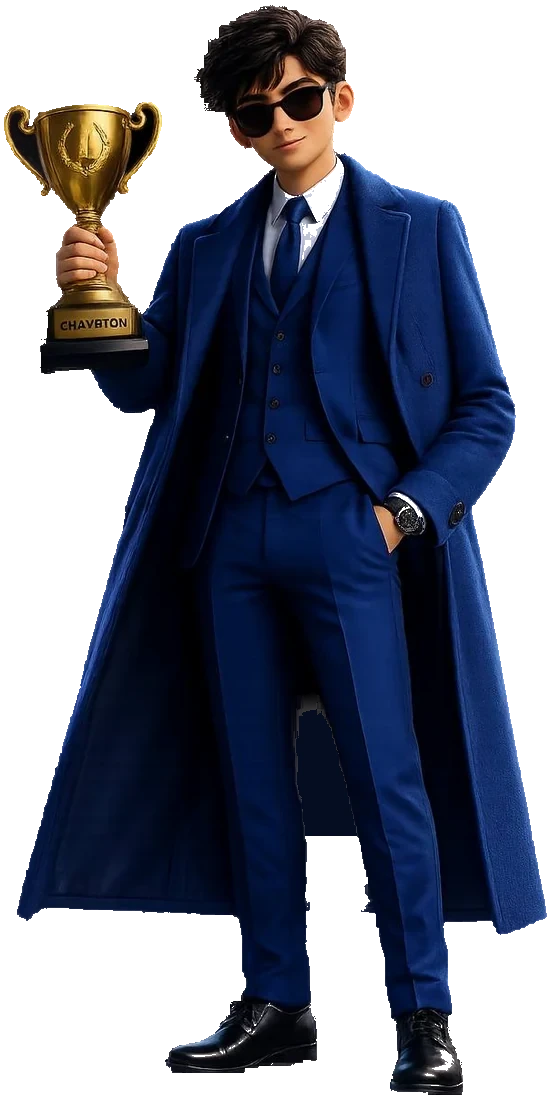
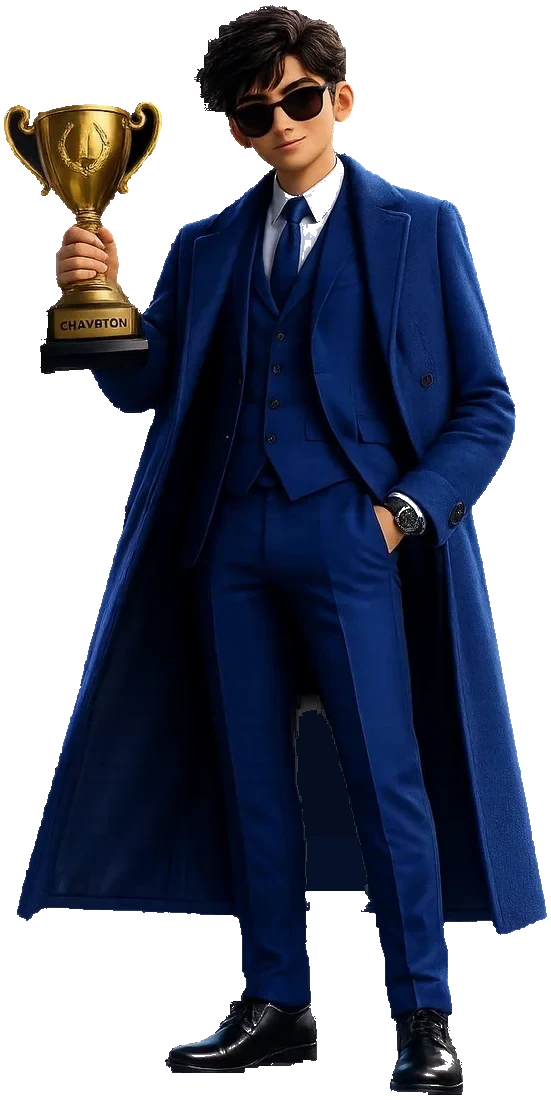
fix(toon-4): plash biroz pastga uzaytirildi (hem 0.76->0.81H, mavjud navy fill rangida) — 'plashni tushir' talabi; toon-3 asl toza holatda qoldi (soch chetlari toza; yorug' joylar pushti quloqchin/tabiiy highlight, olib tashlash teshik qiladi); SW v29.0.10

Changed region(s): [[0.5554, 0.7418, 0.6788, 0.8345]]

diff --git a/docs/v2/preview/service-worker.js b/docs/v2/preview/service-worker.js
@@ -3,7 +3,7 @@
  * after first load. Caches all preview HTML files + the logo.
  */
 
-const CACHE_NAME = 'focusai-v29.0.9';
+const CACHE_NAME = 'focusai-v29.0.10';
 const ASSETS = [
   './',
   // Asosiy infratuzilma